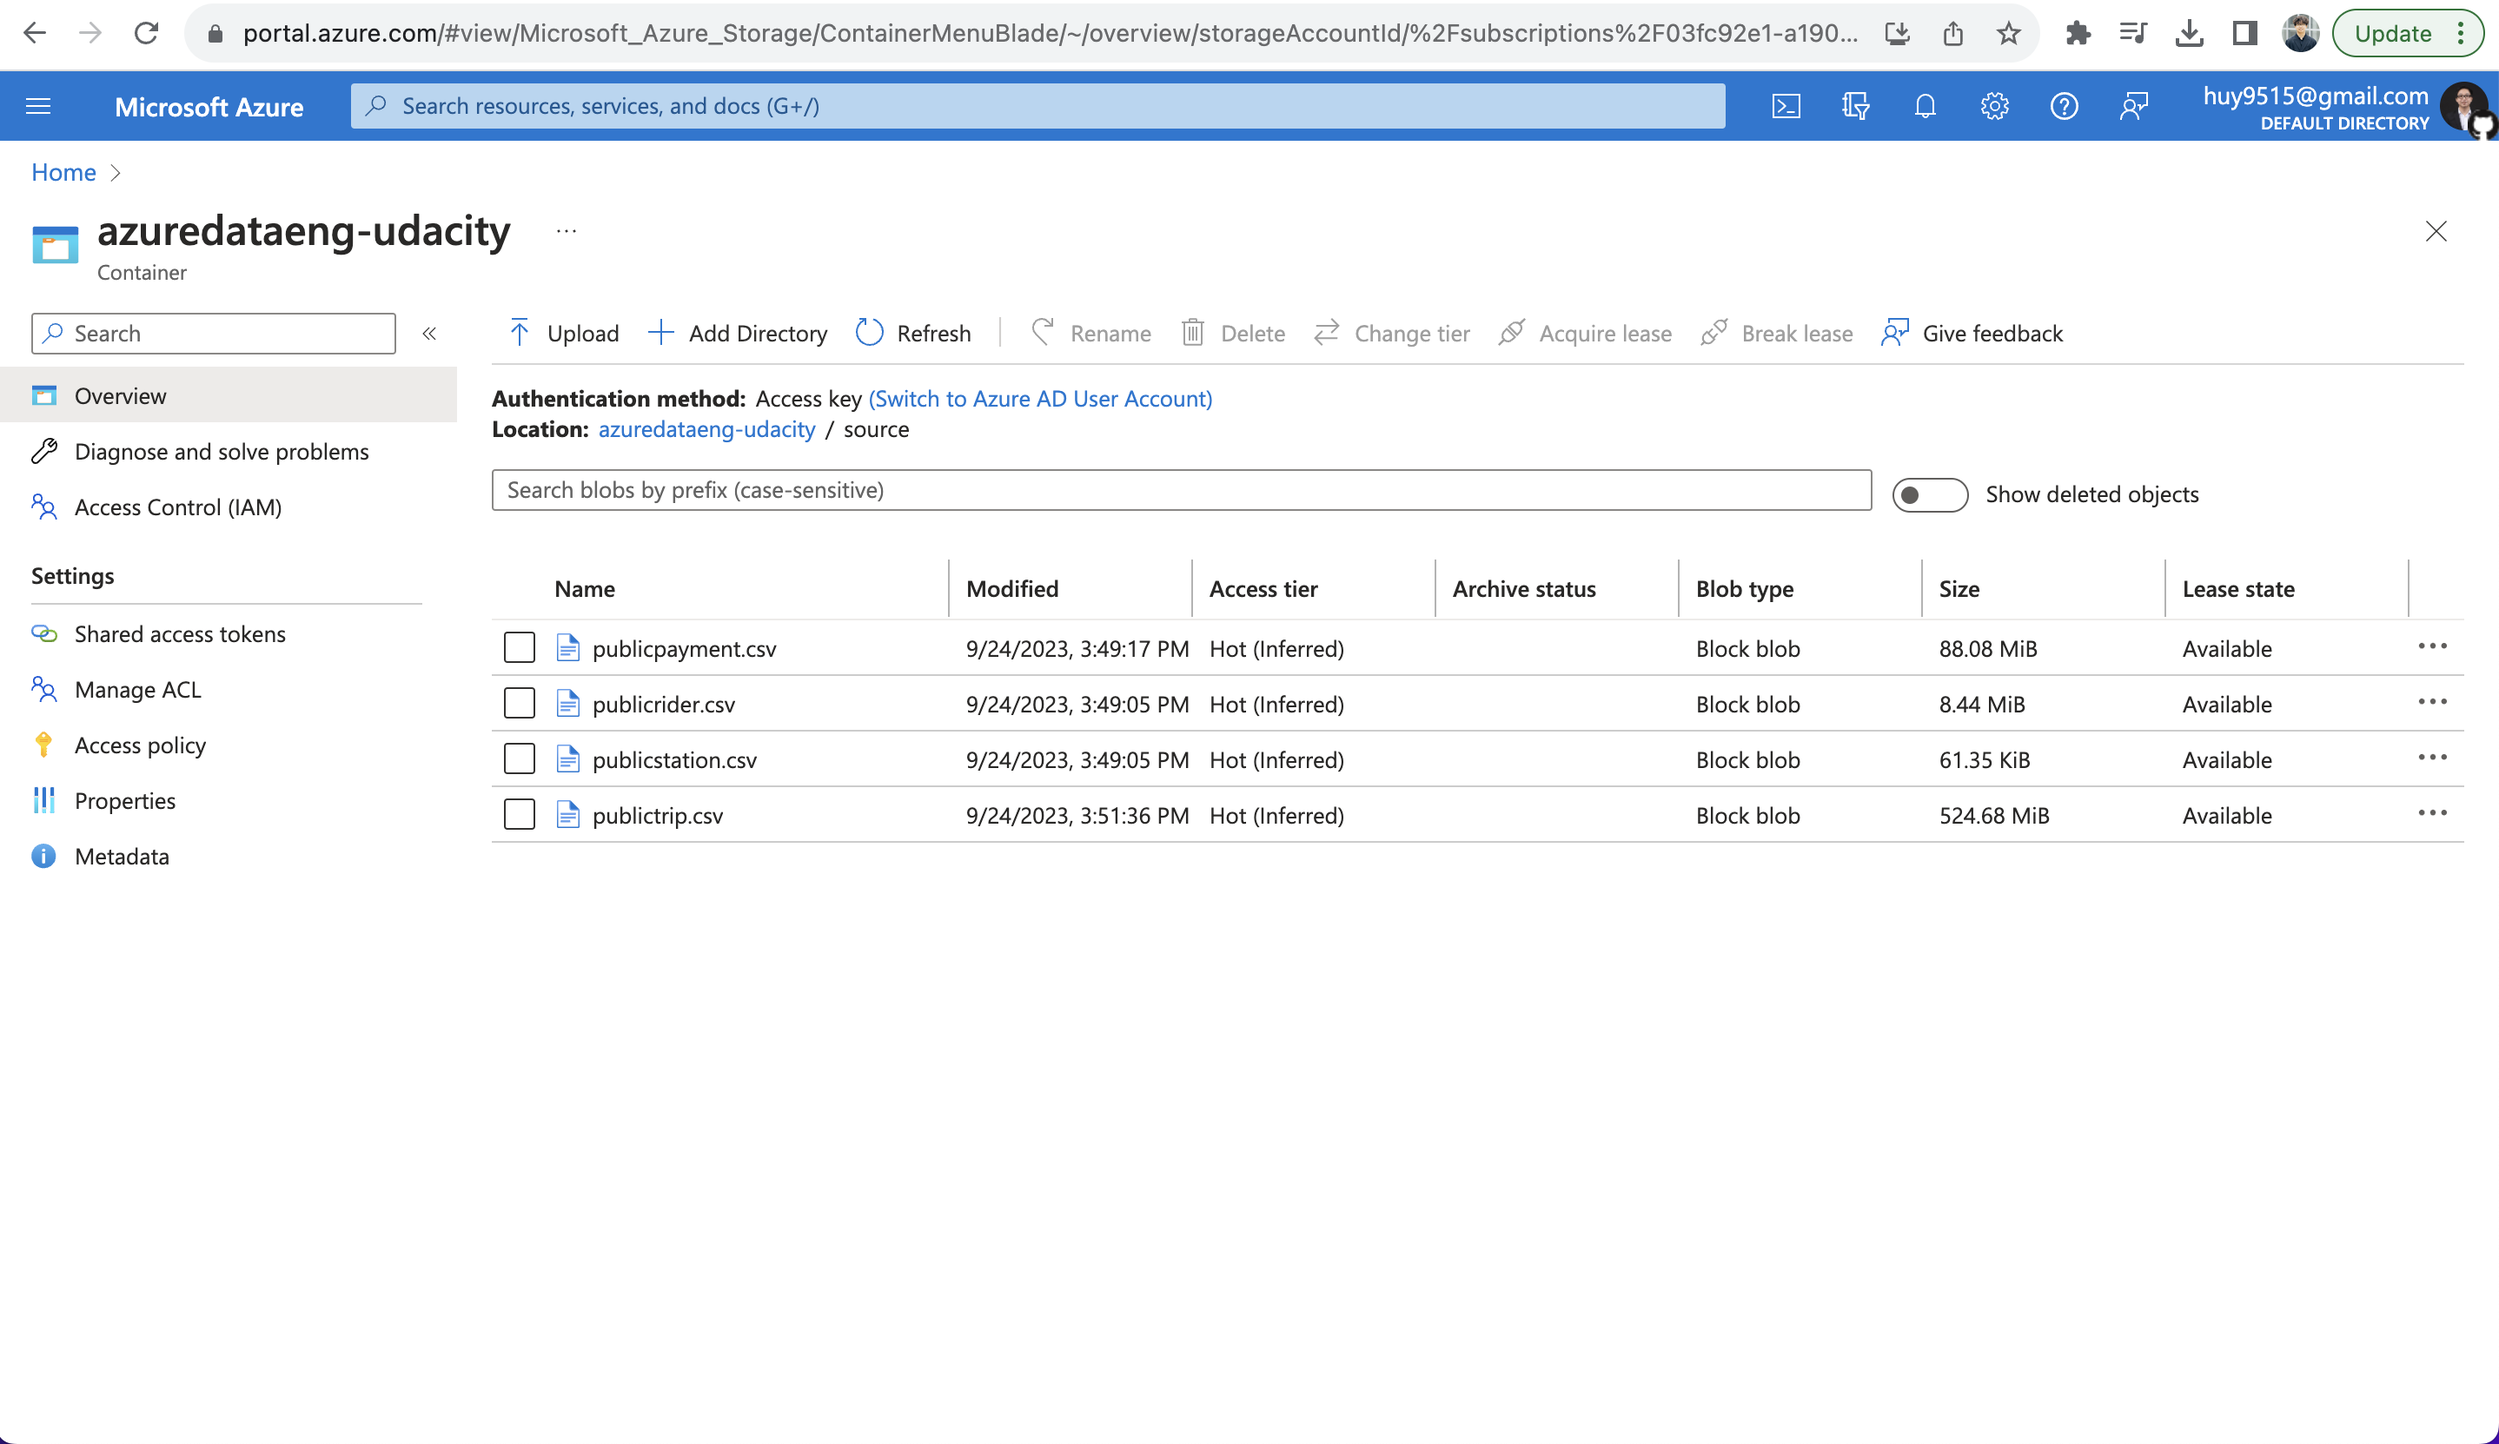
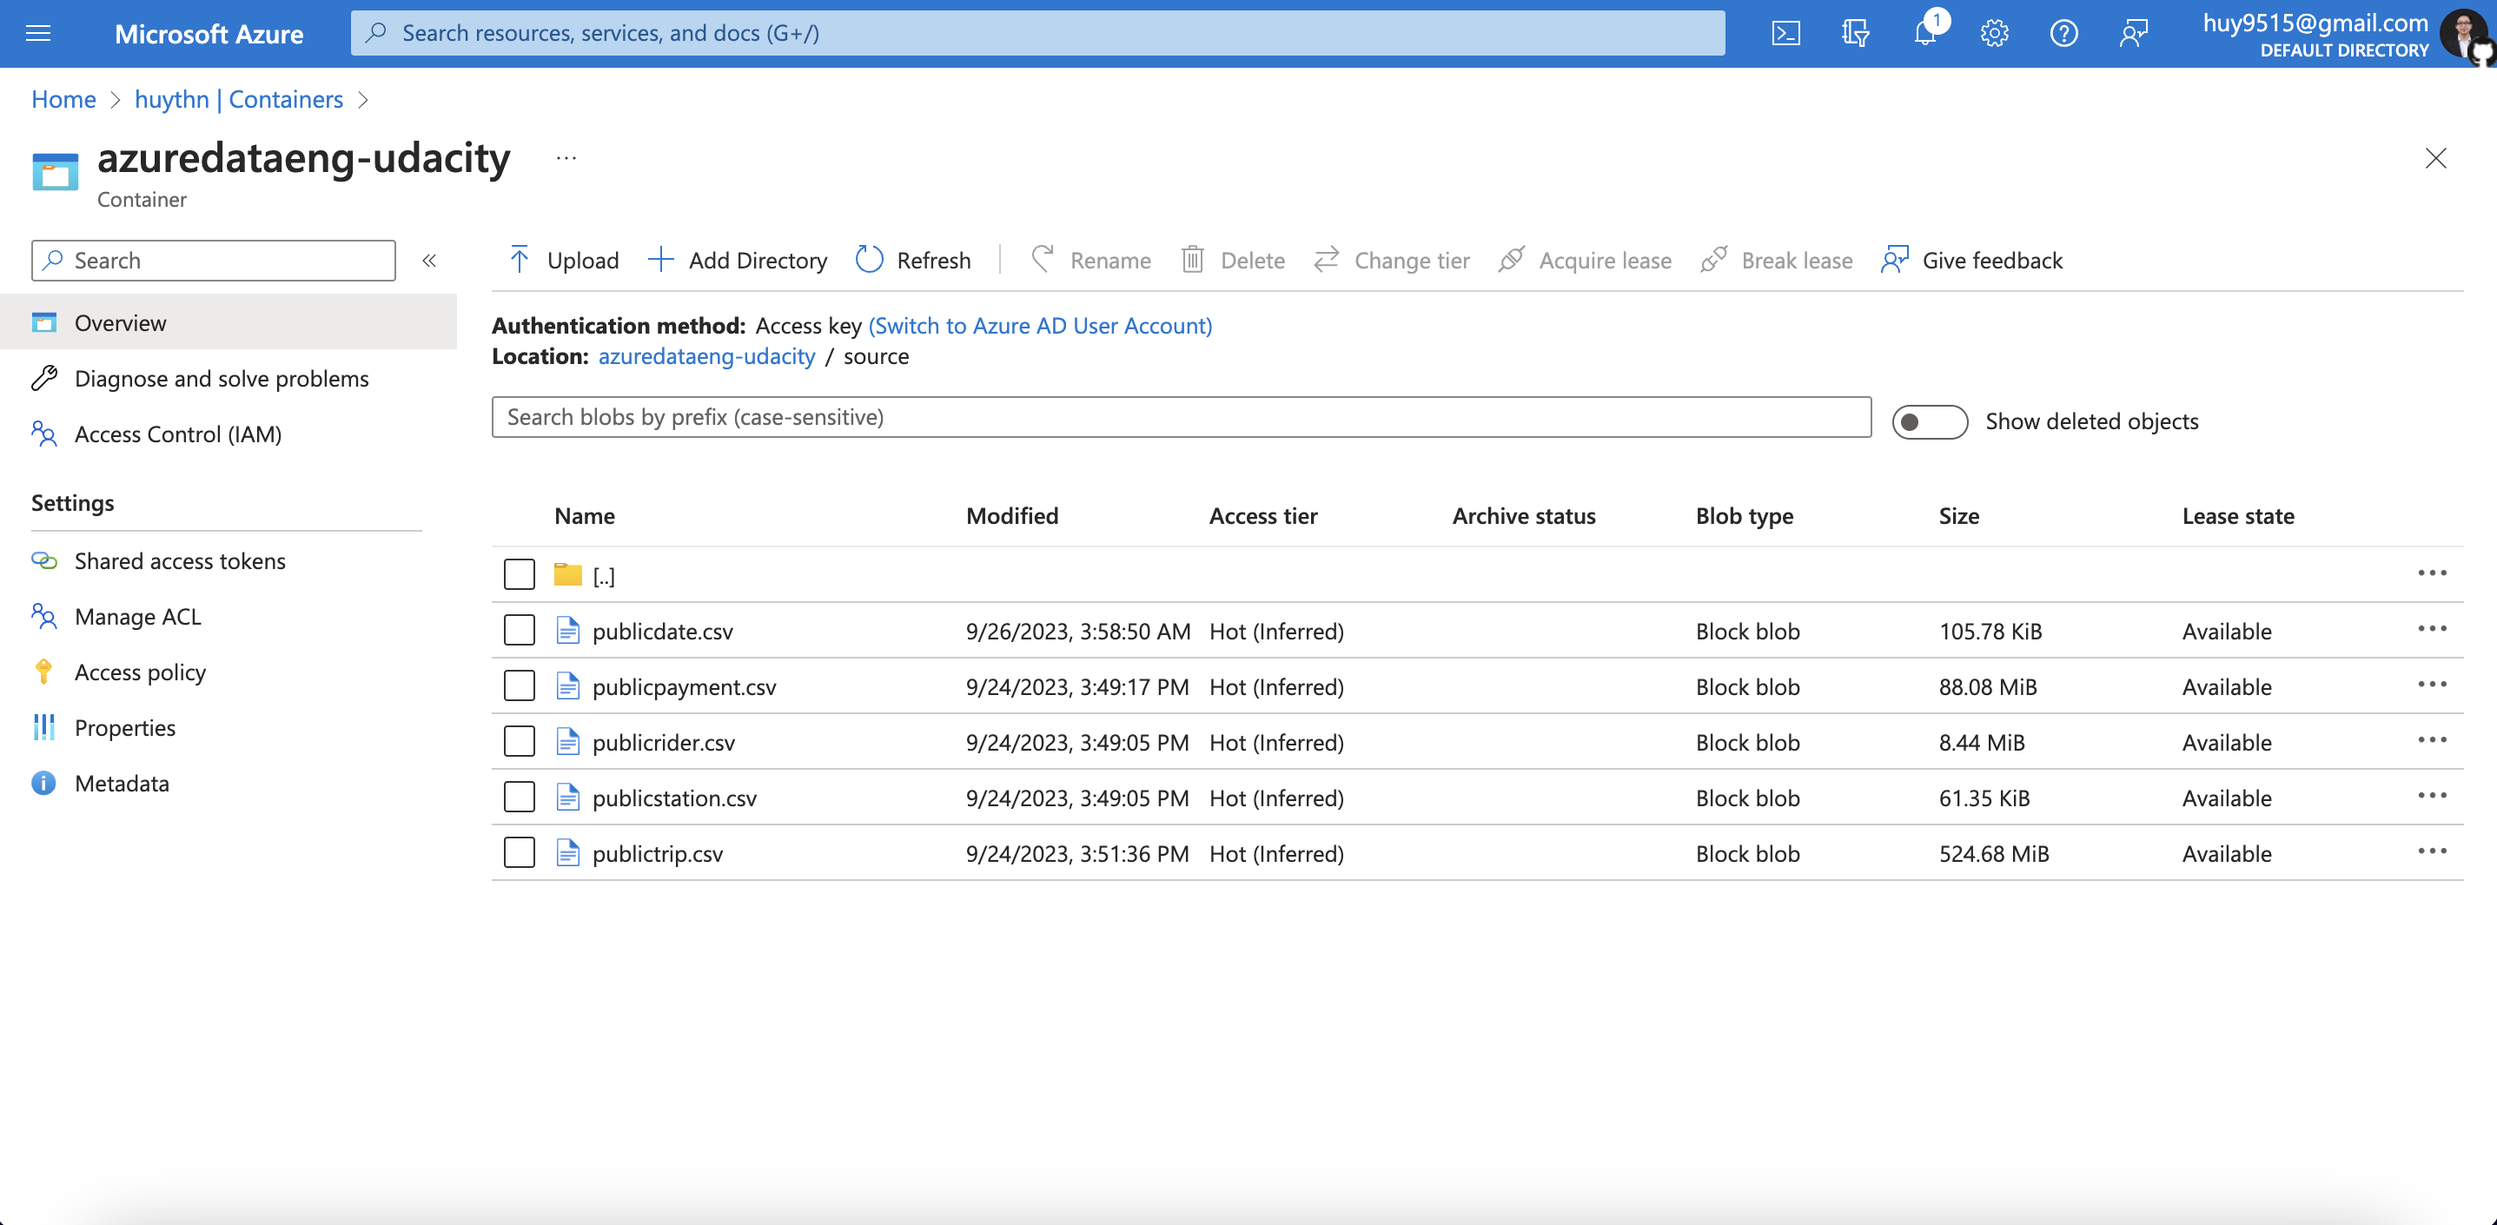
add Date dim table and additional fixes

diff --git a/II.CloudDataWarehouses/README.md b/II.CloudDataWarehouses/README.md
@@ -70,17 +70,16 @@ Here we have 2 fact tables and 2 dimension tables, which are:
 
 - (Fact) Trip:
     + `trip_id` : surrogate primary key of the trip, string format.
-    + `payment_id` : secondary key, representing payment corresponding to this trip, int format.
     + `trip_date` : date of the start of the trip, date format of `yyyy-mm-dd`.
     + `trip_time` : time of the start of the trip, time format of `hh:mm:ss`.
-    + `started_at` : date and time of the start of the trip, datetime format of `2019-05-01 00:00:00.0000000`.
-    + `ended_at` : date and time of the end of the trip, datetime format of `2019-05-01 00:00:00.0000000`.
+    + `started_at` : date and time of the start of the trip, datetime format of `yyyy-mm-dd hh:mm:ss`.
+    + `ended_at` : date and time of the end of the trip, datetime format of `yyyy-mm-dd hh:mm:ss`.
     + `rider_id` : secondary key, representing ID of rider, int format.
     + `rideable_type` : type of the trip's transportation, string format.
     + `rider_age` : age of the rider, int format.
     + `start_station_id` : ID of station where the trip starts, string format.
     + `end_station_id` : ID of station where the trip ends, string format.
-    + `duration` : total time length of the trip, in hours, int format.
+    + `duration` : total time length of the trip, in SECONDS, bigint format.
 
 ![Fact Trip table](./assets/starSchema_Trip.png)
 
@@ -102,17 +101,18 @@ Here we have 2 fact tables and 2 dimension tables, which are:
     + `latitude` : latitude of the station, float format.
     + `longitude` : longitude of the station, float format.
 
+![Dim Station table](./assets/starSchema_Station.png)
+
 - (Dimension) Date:
-    + `date_id` : basically the date in `yyyy-mm-dd` format.
+    + `date_id` : basically the date in `yyyy-mm-dd` format, from `2013-01-01` to `2022-12-31`.
     + `day` : calendar day, int format, `1~31`.
     + `month` : calendar month, int format, `1~12`.
     + `quarter` : yearly quarter, int format, `1~4` for Q1 to Q4.
     + `year` : calendar year, int format, `xxxx`.
     + `day_of_week` : weekday, int format, `1~7` for Sunday to Saturday.
-    + `day_if_year` : yearly day, int format, `1~365` (sometimes `366`).
+    + `day_of_year` : yearly day, int format, `1~365` (sometimes `366`).
 
-![Dim Station table](./assets/starSchema_Station.png)
-
+![Dim Date table](./assets/starSchema_Date.png)
   
 ### Task 3. Create the data in PostgreSQL
 
@@ -129,6 +129,8 @@ The steps follow:
 1. Locate the Azure Synapse workspace.
 2. Use the ingest wizard to create a one-time pipeline that ingests the data from PostgreSQL into Azure Blob Storage.
 3. Verify that all four tables are represented as delimited text files in Blob Storage, ready for loading into the data warehouse.
+
+For the Date dimension table, as we do not have original raw data, I decided to create one using Excel and pretty simple Excel functions. The schema follows Date dimension schema above, and the raw data file (CSV) is stored at `aux_Files/publicdate.csv`.
 
 ![Extract PostgreSQL data into Blob Storage](./assets/Task4.ExtractDataPostgreSQL.png)
 
